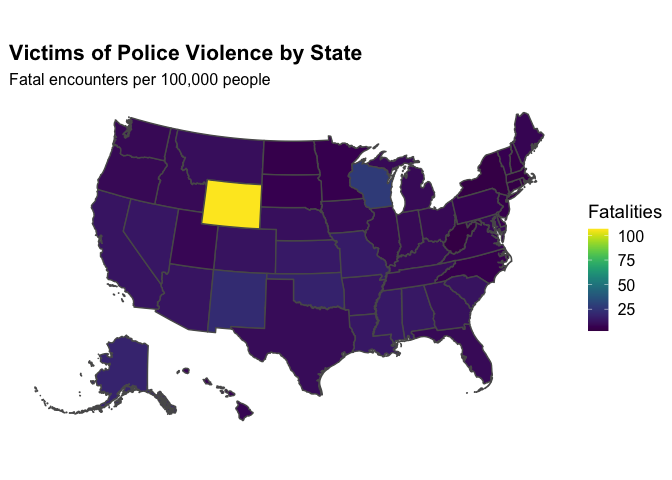
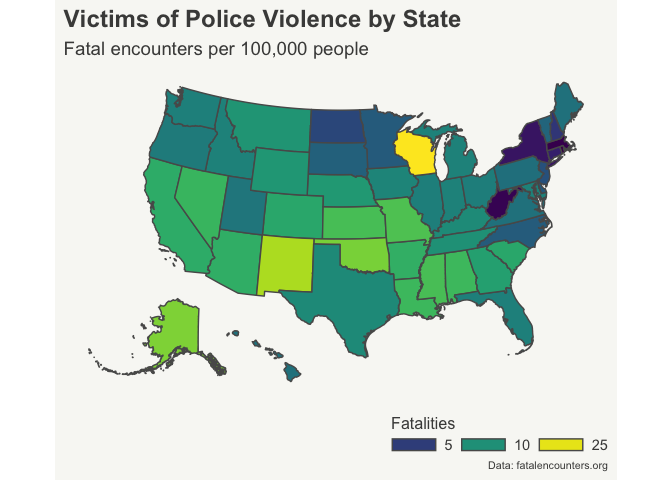
scale edits

diff --git a/README.md b/README.md
@@ -1,7 +1,7 @@
 
 <!-- README.md is generated from README.Rmd. Please edit that file -->
 
-# Mapping Fatal Police Encounters by State
+# Mapping Fatal Police Encounters in the US
 
 <!-- badges: start -->
 <!-- badges: end -->
@@ -10,21 +10,30 @@ Which US states have the highest per capita fatal police encounters ?
 
 ![](README_files/figure-gfm/log-fig-1.png)<!-- -->
 
--   An important note is the map above uses a logged scale for
-    fatalities per 100,000 people. Due to Wyoming being an outlier
-    state - with over double the number per capita fatalities as the
-    second closest state - it is visually challenging to discern any
-    significant variation among other states when a leveled scale is
-    used. This issue can be seen in the map plotted below. Conversely,
-    the variation among states is more apparent when using a logged
-    scale: we can see in which states the fatalities are lower as a
-    proportion to population and where they are higher. The downside to
-    the log scale is the lack of interpretability of the scale. By
-    comparing the legends from the two maps, we can generally assume the
-    log scale indicates how many times larger the fatality rate is in a
-    given state from the state with the lowest rate.
-
 ![](README_files/figure-gfm/levels-fig-1.png)<!-- -->
+
+-   The most salient feature is the fatal police encounter rate in the
+    state of Wyoming, where fatal encounters are
+
+No evident political trend
+
+Wyoming is likely outlier, smaller population, so a small number of
+fatal encounters has a big impact. Due to small population it is hard to
+determine whether the proportionally high fatal encounters with police
+rate is random, noise or if it is genuinely a state issue.
+
+An important note is the map above uses a logged scale for fatalities
+per 100,000 people. Due to Wyoming being an outlier state - with over
+double the number per capita fatalities as the second closest state - it
+is visually challenging to discern any significant variation among other
+states when a leveled scale is used. This issue can be seen in the map
+plotted below. Conversely, the variation among states is more apparent
+when using a logged scale: we can see in which states the fatalities are
+lower as a proportion to population and where they are higher. The
+downside to the log scale is the lack of interpretability of the scale.
+By comparing the legends from the two maps, we can generally assume the
+log scale indicates how many times larger the fatality rate is in a
+given state from the state with the lowest rate.
 
 ## Source
 
